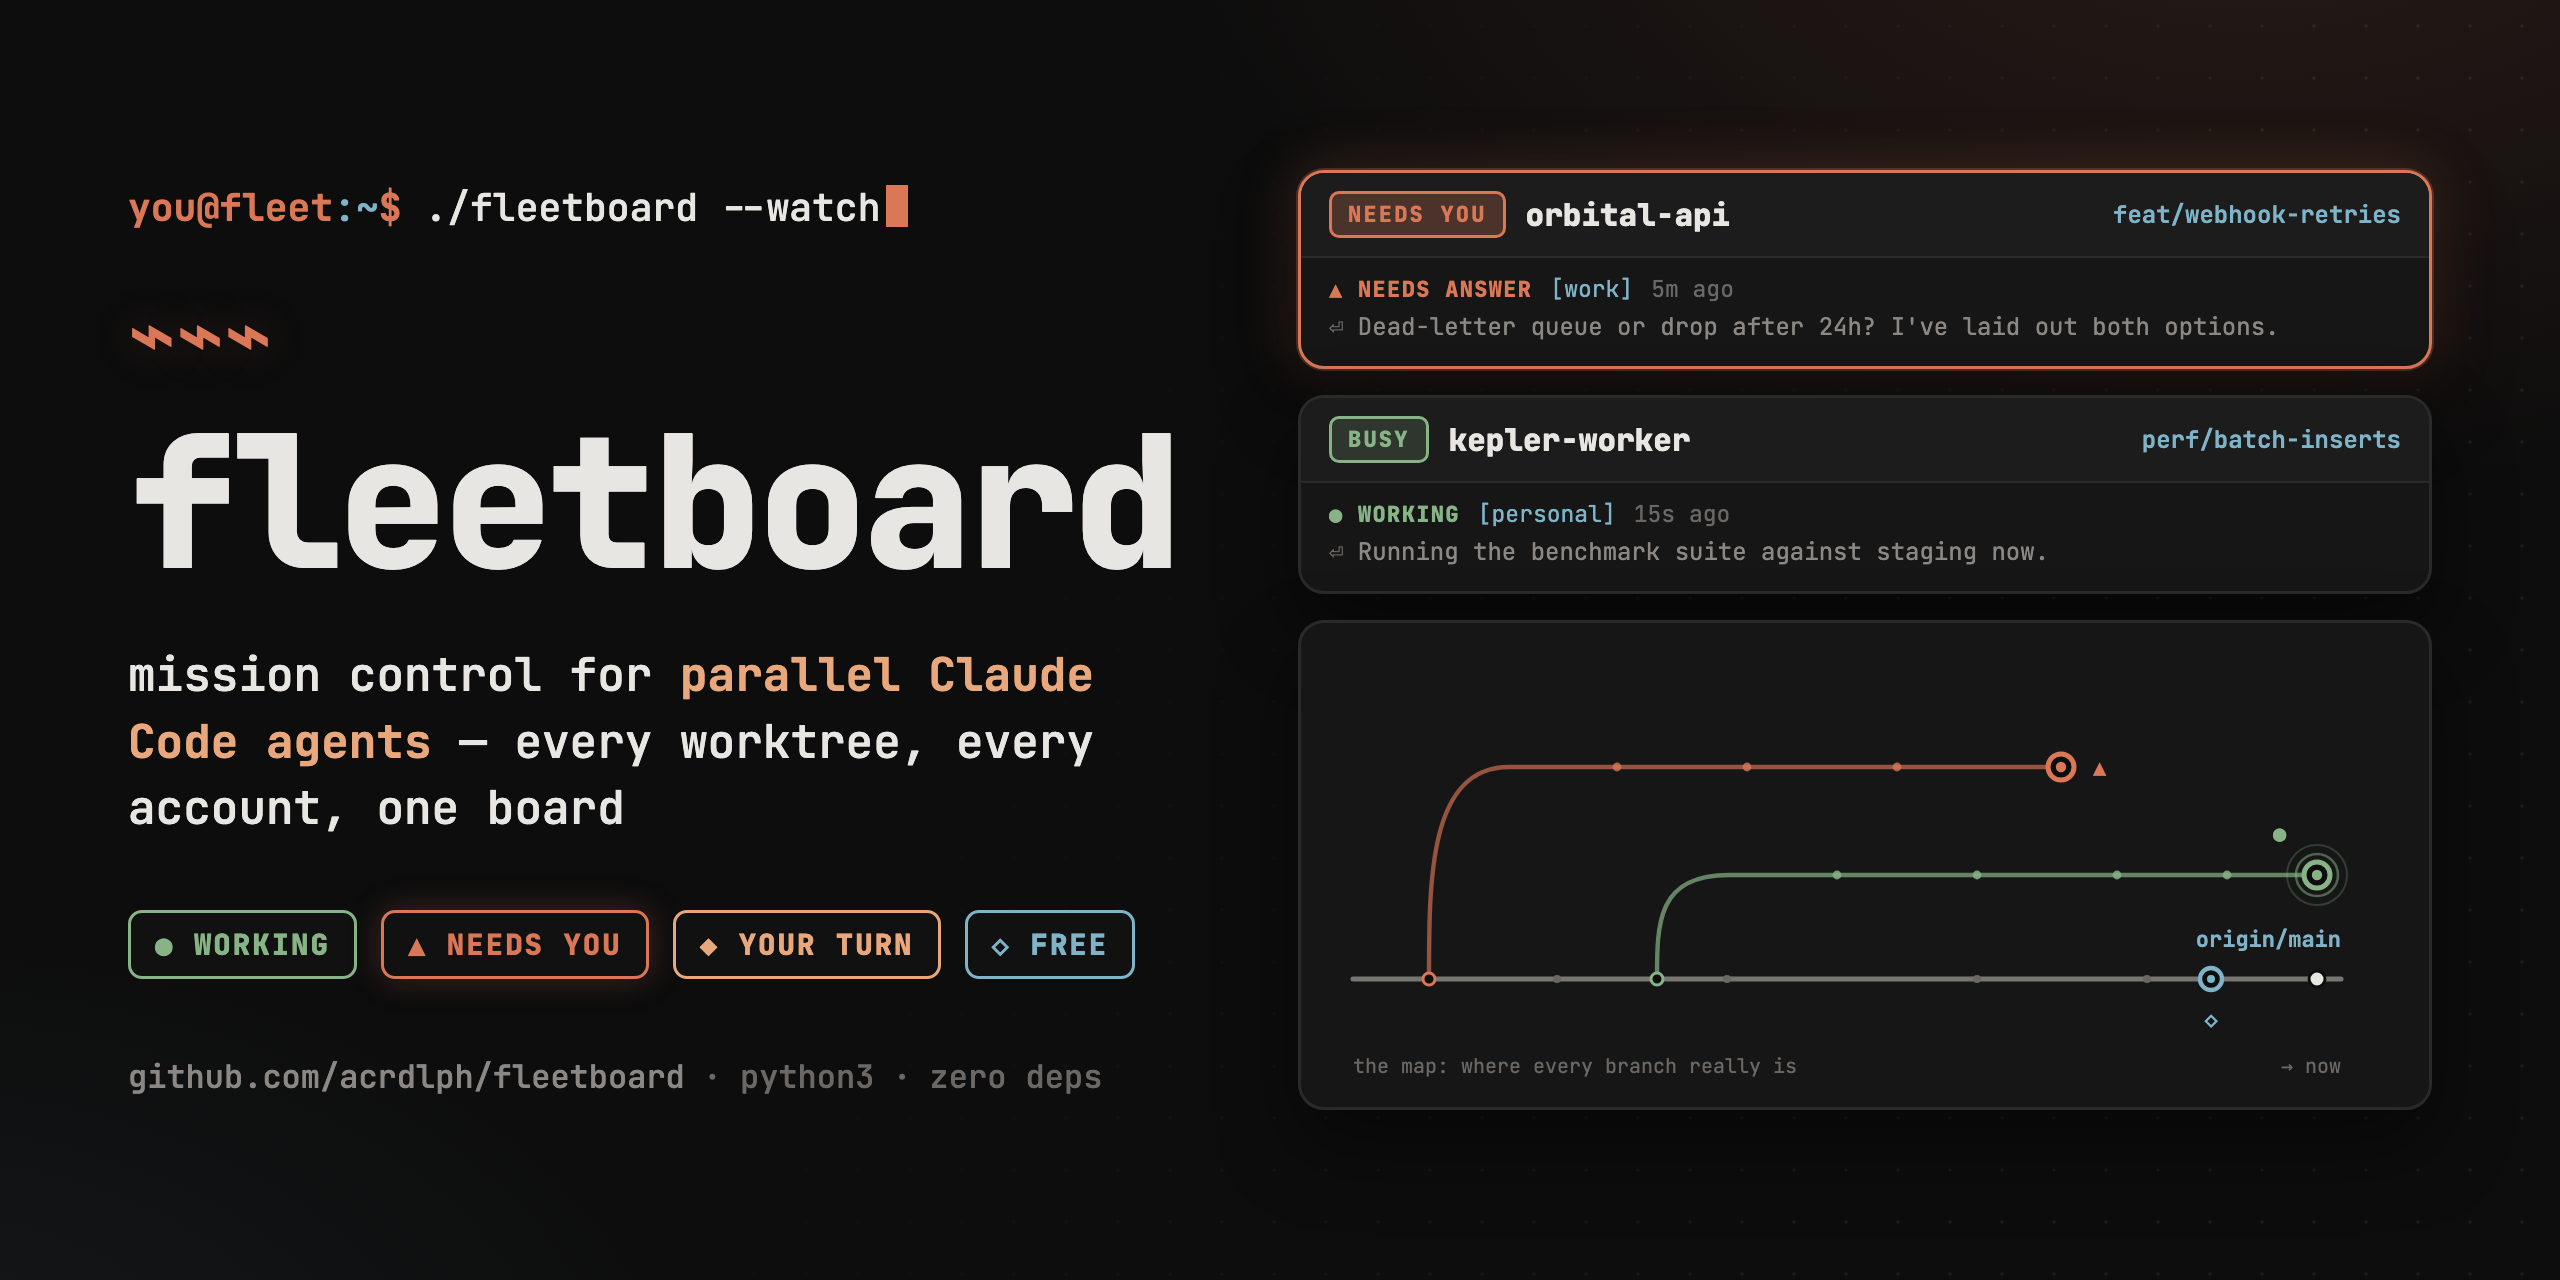
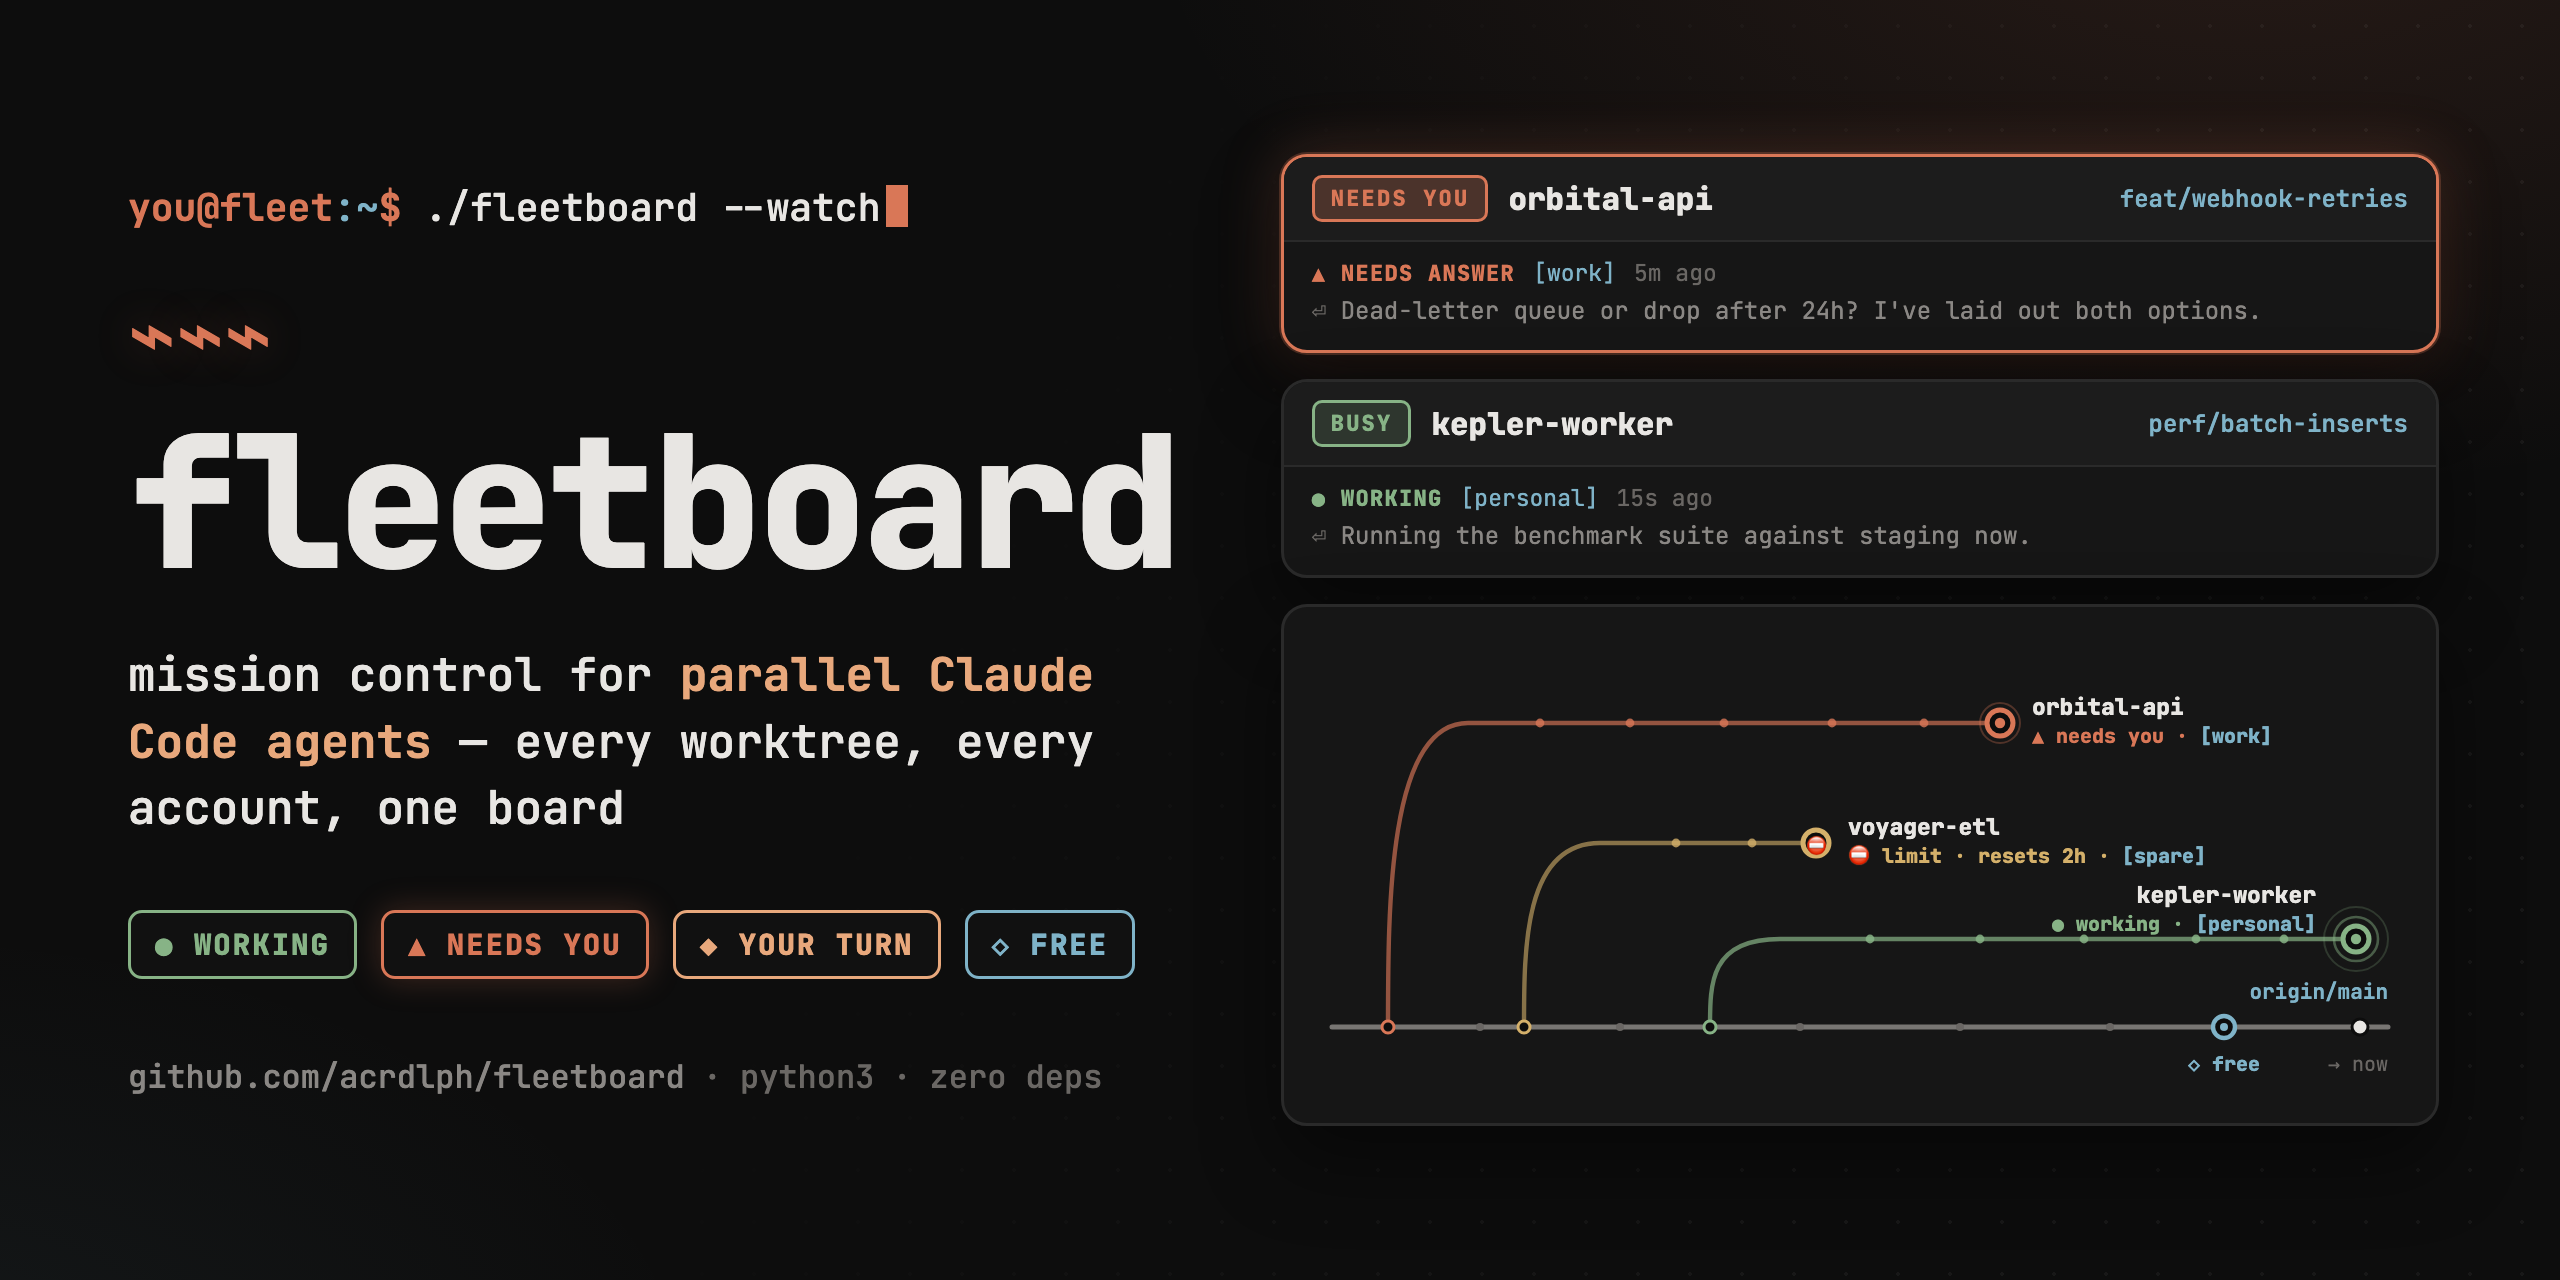
docs: social card v2 map panel — named agents, limit showcase, no caption
Mini-map now mirrors the board's story: three labeled branches (needs-you,
limit-hit with reset countdown, working-at-now with pulse) each tagged with
its account, free rider on the trunk.

Changed region(s): [[0.5, 0.0938, 0.9688, 0.4375], [0.5312, 0.5312, 0.9375, 0.8438]]

diff --git a/docs/social-card-v2.html b/docs/social-card-v2.html
@@ -126,47 +126,61 @@ h1 { font-size:92px; font-weight:800; letter-spacing:-0.03em; line-height:1; }
     </div>
 
     <div class="mapcard">
-      <svg width="548" height="228" viewBox="0 0 548 228">
+      <svg width="560" height="244" viewBox="0 0 560 244">
         <!-- trunk -->
-        <line x1="18" y1="168" x2="512" y2="168" stroke="#8a8784" stroke-width="2.5" stroke-linecap="round" opacity=".85"/>
+        <line x1="16" y1="200" x2="544" y2="200" stroke="#8a8784" stroke-width="2.5" stroke-linecap="round" opacity=".85"/>
         <g fill="#6a6764">
-          <circle cx="120" cy="168" r="2"/><circle cx="205" cy="168" r="2"/>
-          <circle cx="330" cy="168" r="2"/><circle cx="415" cy="168" r="2"/>
+          <circle cx="90" cy="200" r="2"/><circle cx="160" cy="200" r="2"/><circle cx="250" cy="200" r="2"/>
+          <circle cx="330" cy="200" r="2"/><circle cx="405" cy="200" r="2"/>
         </g>
-        <circle cx="500" cy="168" r="4" fill="#e8e6e3" stroke="#0d0d0d" stroke-width="1.5"/>
-        <text x="512" y="152" font-size="11" font-weight="700" text-anchor="end" fill="#7fb3c8">origin/main</text>
+        <circle cx="530" cy="200" r="4" fill="#e8e6e3" stroke="#0d0d0d" stroke-width="1.5"/>
+        <text x="544" y="186" font-size="10.5" font-weight="700" text-anchor="end" fill="#7fb3c8">origin/main</text>
 
-        <!-- branch: needs you (orange) -->
-        <path d="M 56 168 C 56 118, 56 62, 96 62 L 372 62" fill="none" stroke="#d97757" stroke-width="2.2" stroke-opacity=".65" stroke-linecap="round"/>
-        <circle cx="56" cy="168" r="3" fill="#0d0d0d" stroke="#d97757" stroke-width="1.5"/>
+        <!-- orbital-api: needs you (orange) -->
+        <path d="M 44 200 C 44 140, 44 48, 84 48 L 350 48" fill="none" stroke="#d97757" stroke-width="2.2" stroke-opacity=".65" stroke-linecap="round"/>
+        <circle cx="44" cy="200" r="3" fill="#0d0d0d" stroke="#d97757" stroke-width="1.5"/>
         <g fill="#d97757" opacity=".8">
-          <circle cx="150" cy="62" r="2.2"/><circle cx="215" cy="62" r="2.2"/><circle cx="290" cy="62" r="2.2"/>
+          <circle cx="120" cy="48" r="2.2"/><circle cx="165" cy="48" r="2.2"/><circle cx="212" cy="48" r="2.2"/>
+          <circle cx="266" cy="48" r="2.2"/><circle cx="312" cy="48" r="2.2"/>
         </g>
-        <circle cx="372" cy="62" r="6.5" fill="#0d0d0d" stroke="#d97757" stroke-width="2.5"/>
-        <circle cx="372" cy="62" r="2.6" fill="#d97757"/>
-        <text x="388" y="66" font-size="11" font-weight="800" fill="#d97757">▲</text>
+        <circle cx="350" cy="48" r="10" fill="none" stroke="#d97757" stroke-width="1" opacity=".3"/>
+        <circle cx="350" cy="48" r="6.5" fill="#0d0d0d" stroke="#d97757" stroke-width="2.5"/>
+        <circle cx="350" cy="48" r="2.6" fill="#d97757"/>
+        <text x="366" y="44" font-size="11.5" font-weight="800" fill="#e8e6e3">orbital-api</text>
+        <text x="366" y="58" font-size="10" font-weight="800" fill="#d97757">▲ needs you · <tspan fill="#7fb3c8">[work]</tspan></text>
 
-        <!-- branch: working (green, at "now") -->
-        <path d="M 170 168 C 170 140, 170 116, 206 116 L 500 116" fill="none" stroke="#87b386" stroke-width="2.2" stroke-opacity=".7" stroke-linecap="round"/>
-        <circle cx="170" cy="168" r="3" fill="#0d0d0d" stroke="#87b386" stroke-width="1.5"/>
-        <g fill="#87b386" opacity=".85">
-          <circle cx="260" cy="116" r="2.2"/><circle cx="330" cy="116" r="2.2"/>
-          <circle cx="400" cy="116" r="2.2"/><circle cx="455" cy="116" r="2.2"/>
+        <!-- voyager-etl: limit hit, stopped mid-map (yellow) -->
+        <path d="M 112 200 C 112 160, 112 108, 150 108 L 258 108" fill="none" stroke="#d4b06a" stroke-width="2.2" stroke-opacity=".6" stroke-linecap="round"/>
+        <circle cx="112" cy="200" r="3" fill="#0d0d0d" stroke="#d4b06a" stroke-width="1.5"/>
+        <g fill="#d4b06a" opacity=".8">
+          <circle cx="188" cy="108" r="2.2"/><circle cx="226" cy="108" r="2.2"/>
         </g>
-        <circle cx="500" cy="116" r="15" fill="none" stroke="#87b386" stroke-width="1" opacity=".25"/>
-        <circle cx="500" cy="116" r="10.5" fill="none" stroke="#87b386" stroke-width="1.3" opacity=".5"/>
-        <circle cx="500" cy="116" r="6.5" fill="#0d0d0d" stroke="#87b386" stroke-width="2.5"/>
-        <circle cx="500" cy="116" r="2.6" fill="#87b386"/>
-        <text x="478" y="99" font-size="11" font-weight="800" fill="#87b386">●</text>
+        <circle cx="258" cy="108" r="6.5" fill="#0d0d0d" stroke="#d4b06a" stroke-width="2.5"/>
+        <text x="258" y="112.5" font-size="9" text-anchor="middle" fill="#d4b06a">⛔</text>
+        <text x="274" y="104" font-size="11.5" font-weight="800" fill="#e8e6e3">voyager-etl</text>
+        <text x="274" y="118" font-size="10" font-weight="800" fill="#d4b06a">⛔ limit · resets 2h · <tspan fill="#7fb3c8">[spare]</tspan></text>
+
+        <!-- kepler-worker: working at "now" (green) -->
+        <path d="M 205 200 C 205 178, 205 156, 240 156 L 528 156" fill="none" stroke="#87b386" stroke-width="2.2" stroke-opacity=".7" stroke-linecap="round"/>
+        <circle cx="205" cy="200" r="3" fill="#0d0d0d" stroke="#87b386" stroke-width="1.5"/>
+        <g fill="#87b386" opacity=".85">
+          <circle cx="285" cy="156" r="2.2"/><circle cx="340" cy="156" r="2.2"/><circle cx="392" cy="156" r="2.2"/>
+          <circle cx="448" cy="156" r="2.2"/><circle cx="492" cy="156" r="2.2"/>
+        </g>
+        <circle cx="528" cy="156" r="16" fill="none" stroke="#87b386" stroke-width="1" opacity=".22"/>
+        <circle cx="528" cy="156" r="11" fill="none" stroke="#87b386" stroke-width="1.3" opacity=".45"/>
+        <circle cx="528" cy="156" r="6.5" fill="#0d0d0d" stroke="#87b386" stroke-width="2.5"/>
+        <circle cx="528" cy="156" r="2.6" fill="#87b386"/>
+        <text x="508" y="138" font-size="11.5" font-weight="800" text-anchor="end" fill="#e8e6e3">kepler-worker</text>
+        <text x="508" y="152" font-size="10" font-weight="800" text-anchor="end" fill="#87b386">● working · <tspan fill="#7fb3c8">[personal]</tspan></text>
 
         <!-- rider: free worktree on the trunk (cyan) -->
-        <circle cx="447" cy="168" r="5.5" fill="#0d0d0d" stroke="#7fb3c8" stroke-width="2.2"/>
-        <circle cx="447" cy="168" r="2" fill="#7fb3c8"/>
-        <text x="447" y="192" font-size="11" font-weight="800" text-anchor="middle" fill="#7fb3c8">◇</text>
+        <circle cx="462" cy="200" r="5.5" fill="#0d0d0d" stroke="#7fb3c8" stroke-width="2.2"/>
+        <circle cx="462" cy="200" r="2" fill="#7fb3c8"/>
+        <text x="462" y="222" font-size="10" font-weight="800" text-anchor="middle" fill="#7fb3c8">◇ free</text>
 
         <!-- time hint -->
-        <text x="512" y="215" font-size="10" text-anchor="end" fill="#6a6764">→ now</text>
-        <text x="18" y="215" font-size="10" fill="#6a6764">the map: where every branch really is</text>
+        <text x="544" y="222" font-size="10" text-anchor="end" fill="#6a6764">→ now</text>
       </svg>
     </div>
   </div>